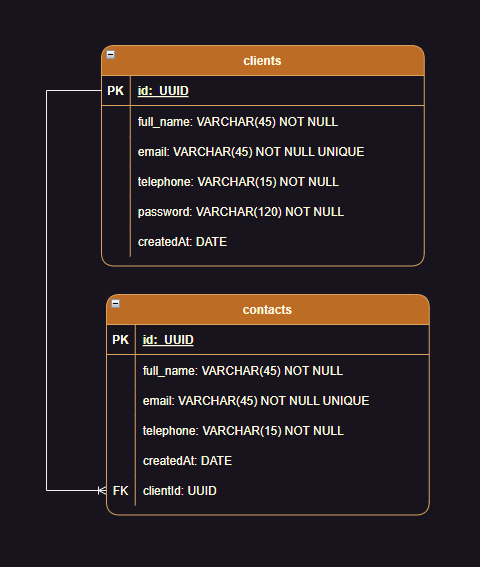
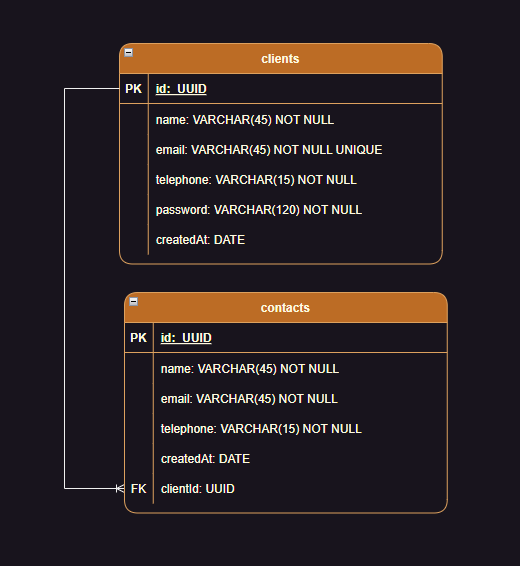
feat: project organization files

Changed region(s): [[0.0938, 0.0601, 0.9062, 0.9311]]

diff --git a/src/controllers/contacts.controller.ts b/src/controllers/contacts.controller.ts
@@ -1,9 +1,6 @@
 import { Request, Response } from "express";
-import { createContacts } from "../services/contacts/createContacts.service";
-import { readContacts } from "../services/contacts/readContacts.service";
-import { updateContacts } from "../services/contacts/updateContacts.service";
-import { removeContacts } from "../services/contacts/removeContacts.service";
-import * as i from "../interfaces";
+import * as services from "../services/contacts";
+import * as i from "../interfaces/contacts.interface";
 
 /* -------------------- CREATE CONTACT CONTROLLER ----------------------- */
 export const create = async (
@@ -12,7 +9,7 @@ export const create = async (
 ): Promise<Response> => {
   const clientId = res.locals.clientId;
 
-  const createdContact = await createContacts(req.body, clientId);
+  const createdContact = await services.createContacts(req.body, clientId);
   return res.status(201).json(createdContact);
 };
 
@@ -23,7 +20,7 @@ export const listByClient = async (
 ): Promise<Response> => {
   const clientId = res.locals.clientId;
 
-  const contacts = await readContacts(clientId);
+  const contacts = await services.readContacts(clientId);
 
   return res.status(200).json(contacts);
 };
@@ -34,7 +31,7 @@ export const remove = async (
   res: Response
 ): Promise<Response> => {
   const contactId = req.params.id;
-  await removeContacts(contactId);
+  await services.removeContacts(contactId);
 
   return res.status(204).json();
 };
@@ -46,8 +43,11 @@ export const update = async (
 ): Promise<Response> => {
   const contactId = req.params.id;
 
-  const updatedValues: i.contacts.Update = req.body;
-  const updatedContact = await updateContacts(contactId, updatedValues);
+  const updatedValues: i.Update = req.body;
+  const updatedContact = await services.updateContacts(
+    contactId,
+    updatedValues
+  );
 
   return res.status(200).json(updatedContact);
 };

diff --git a/src/controllers/clients.controller.ts b/src/controllers/clients.controller.ts
@@ -1,16 +1,13 @@
 import { Request, Response } from "express";
-import { createClients } from "../services/clients/createClients.service";
-import { readClientById } from "../services/clients/readClients.service";
-import { updateClients } from "../services/clients/updateClients.service";
-import { removeClients } from "../services/clients/removeClients.service";
-import * as i from "../interfaces";
+import * as services from "../services/clients";
+import * as i from "../interfaces/clients.interface";
 
 /* -------------------- CREATE CLIENT CONTROLLER ----------------------- */
 export const create = async (
   req: Request,
   res: Response
 ): Promise<Response> => {
-  const createdClient: i.clients.Response = await createClients(req.body);
+  const createdClient: i.Response = await services.createClients(req.body);
   return res.status(201).json(createdClient);
 };
 
@@ -20,7 +17,7 @@ export const listById = async (
   res: Response
 ): Promise<Response> => {
   const clientId = res.locals.clientId;
-  const client: i.clients.Response = await readClientById(clientId);
+  const client: i.Response = await services.readClientById(clientId);
 
   return res.status(200).json(client);
 };
@@ -31,7 +28,7 @@ export const remove = async (
   res: Response
 ): Promise<Response> => {
   const clientId = res.locals.clientId;
-  await removeClients(clientId);
+  await services.removeClients(clientId);
 
   return res.status(204).json();
 };
@@ -42,7 +39,7 @@ export const update = async (
   res: Response
 ): Promise<Response> => {
   const clientId = res.locals.clientId;
-  const updatedClient: i.clients.Response = await updateClients(
+  const updatedClient: i.Response = await services.updateClients(
     clientId,
     req.body
   );

diff --git a/src/routes/contacts.route.ts b/src/routes/contacts.route.ts
@@ -1,6 +1,5 @@
-import { ensureIsOwnerMiddleware } from "../middlewares/ensureIsOwner.middleware";
 import { Router } from "express";
-import * as controller from "../controllers";
+import * as controller from "../controllers/contacts.controller";
 import * as middleware from "../middlewares";
 import * as schema from "../schemas";
 
@@ -8,27 +7,22 @@ export const contacts = Router();
 
 contacts.use(middleware.validateToken);
 
+contacts.get("", controller.listByClient);
+
 contacts.post(
   "",
   middleware.validateBody(schema.contacts.create),
   middleware.emailContactExists,
-  controller.contacts.create
+  controller.create
 );
 
-contacts.get("", controller.contacts.listByClient);
+contacts.use(middleware.contactExists, middleware.ensureIsOwnerMiddleware);
 
 contacts.patch(
   "/:id",
-  middleware.contactExists,
   middleware.validateBody(schema.contacts.update),
-  middleware.ensureIsOwnerMiddleware,
   middleware.emailContactExists,
-  controller.contacts.update
+  controller.update
 );
 
-contacts.delete(
-  "/:id",
-  middleware.contactExists,
-  middleware.ensureIsOwnerMiddleware,
-  controller.contacts.remove
-);
+contacts.delete("/:id", controller.remove);

diff --git a/src/middlewares/emailContactExists.middleware.ts b/src/middlewares/emailContactExists.middleware.ts
@@ -1,22 +1,28 @@
 import { NextFunction, Request, Response } from "express";
 import { Repository } from "typeorm";
 import { AppDataSource } from "../data-source";
-import { Contact } from "../entities";
+import { Client, Contact } from "../entities";
 import { AppError } from "../errors";
 
 export const emailContactExists = async (
   req: Request,
-  _: Response,
+  res: Response,
   next: NextFunction
 ): Promise<void> => {
   const contactEmail: string = req.body.email;
+  const clientId: string = res.locals.clientId;
   const contactRepo: Repository<Contact> = AppDataSource.getRepository(Contact);
 
-  const findEmail: boolean = await contactRepo.exist({
+  const findEmail = await contactRepo.exist({
+    relations: {
+      client: true,
+    },
     where: {
       email: contactEmail,
+      client: {
+        id: clientId,
+      },
     },
-    withDeleted: true,
   });
 
   if (findEmail && contactEmail)

diff --git a/src/migrations/1685050579920-InitialMigration.ts b/src/migrations/1685050579920-InitialMigration.ts
@@ -1,0 +1,14 @@
+import { MigrationInterface, QueryRunner } from "typeorm";
+
+export class InitialMigration1685050579920 implements MigrationInterface {
+    name = 'InitialMigration1685050579920'
+
+    public async up(queryRunner: QueryRunner): Promise<void> {
+        await queryRunner.query(`ALTER TABLE "contacts" DROP CONSTRAINT "UQ_752866c5247ddd34fd05559537d"`);
+    }
+
+    public async down(queryRunner: QueryRunner): Promise<void> {
+        await queryRunner.query(`ALTER TABLE "contacts" ADD CONSTRAINT "UQ_752866c5247ddd34fd05559537d" UNIQUE ("email")`);
+    }
+
+}

diff --git a/src/middlewares/idContactExists.middleware.ts b/src/middlewares/idContactExists.middleware.ts
@@ -1,10 +1,9 @@
 import { NextFunction, Request, Response } from "express";
-import { v4 as uuidv4, validate as validateUUID } from "uuid";
+import { validate as validateUUID } from "uuid";
 import { Repository } from "typeorm";
 import { AppDataSource } from "../data-source";
-import { Client, Contact } from "../entities";
+import { Contact } from "../entities";
 import { AppError } from "../errors";
-import { Console } from "console";
 
 export const contactExists = async (
   req: Request,

diff --git a/src/controllers/login.controller.ts b/src/controllers/login.controller.ts
@@ -1,9 +1,9 @@
 import { Request, Response } from "express";
-import { createTokenLogin } from "../services/login/login.service";
+import * as services from "../services/login";
 
 export const createToken = async (req: Request, res: Response) => {
   const { email, password } = req.body;
-  const token = await createTokenLogin({ email, password });
+  const token = await services.createTokenLogin({ email, password });
 
   return res.json({ token });
 };

diff --git a/src/services/contacts/updateContacts.service.ts b/src/services/contacts/updateContacts.service.ts
@@ -8,9 +8,6 @@ export const updateContacts = async (
   contactId: string,
   contactData: i.contacts.Update
 ): Promise<i.contacts.Response> => {
-  /* console.log("=============================================");
-  console.log(clientId);
-  console.log("============================================="); */
   const ContactRepo: i.contacts.ContactRepo =
     AppDataSource.getRepository(Contact);
 

diff --git a/src/services/contacts/createContacts.service.ts b/src/services/contacts/createContacts.service.ts
@@ -17,10 +17,6 @@ export const createContacts = async (
     id: clientId,
   });
 
-  // console.log("===========================================================");
-  // console.log(client);
-  // console.log("===========================================================");
-
   if (!client) {
     throw new AppError("User not found", 404);
   }

diff --git a/src/interfaces/contacts.interface.ts b/src/interfaces/contacts.interface.ts
@@ -1,6 +1,6 @@
 import { z } from "zod";
-import { DeepPartial, Repository } from "typeorm";
 import { Contact } from "../entities";
+import { DeepPartial, Repository } from "typeorm";
 import * as schemas from "../schemas/contacts.schema";
 
 export type Create = z.infer<typeof schemas.create>;

diff --git a/src/interfaces/clients.interface.ts b/src/interfaces/clients.interface.ts
@@ -1,6 +1,6 @@
 import { z } from "zod";
-import { DeepPartial, Repository } from "typeorm";
 import { Client } from "../entities";
+import { DeepPartial, Repository } from "typeorm";
 import * as schemas from "../schemas/clients.schema";
 
 export type Create = z.infer<typeof schemas.create>;

diff --git a/src/controllers/index.ts b/src/controllers/index.ts
@@ -1,3 +1,3 @@
 export * as clients from "./clients.controller";
 export * as login from "./login.controller";
-export * as contacts from "./contacts.controller";
+// export * as contacts from "./contacts.controller";
